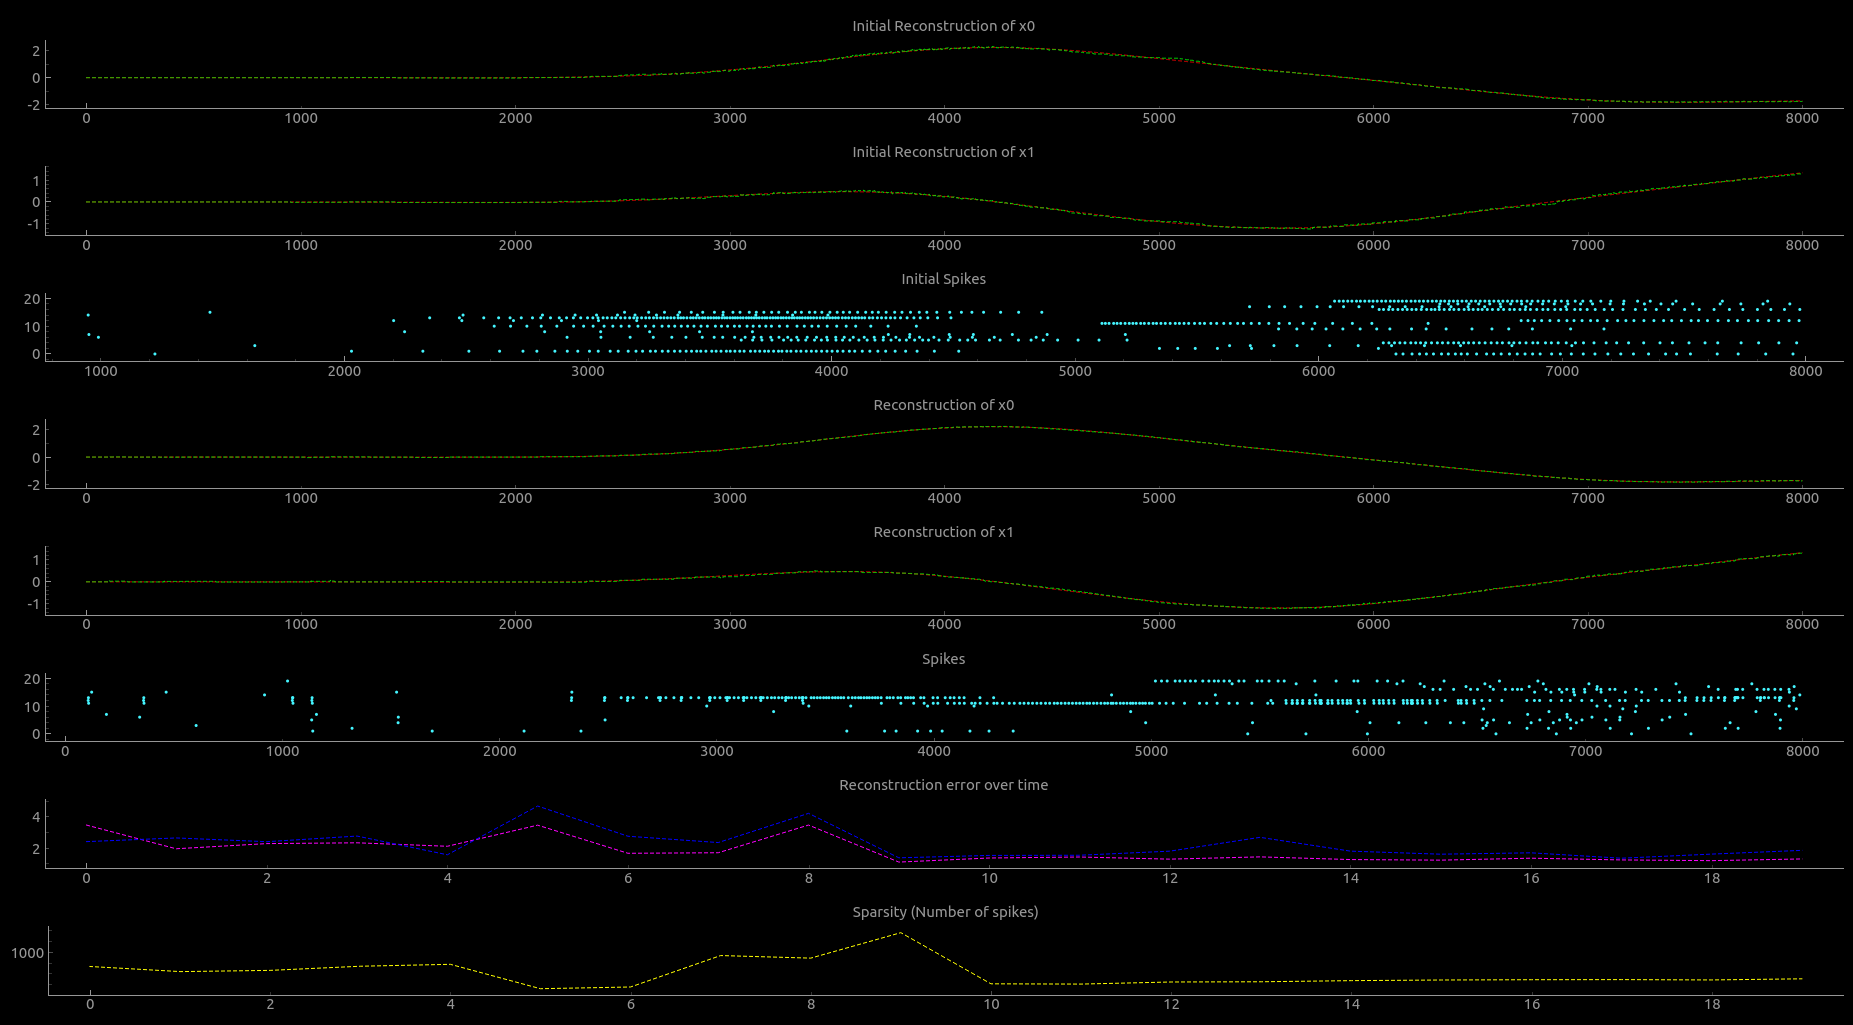
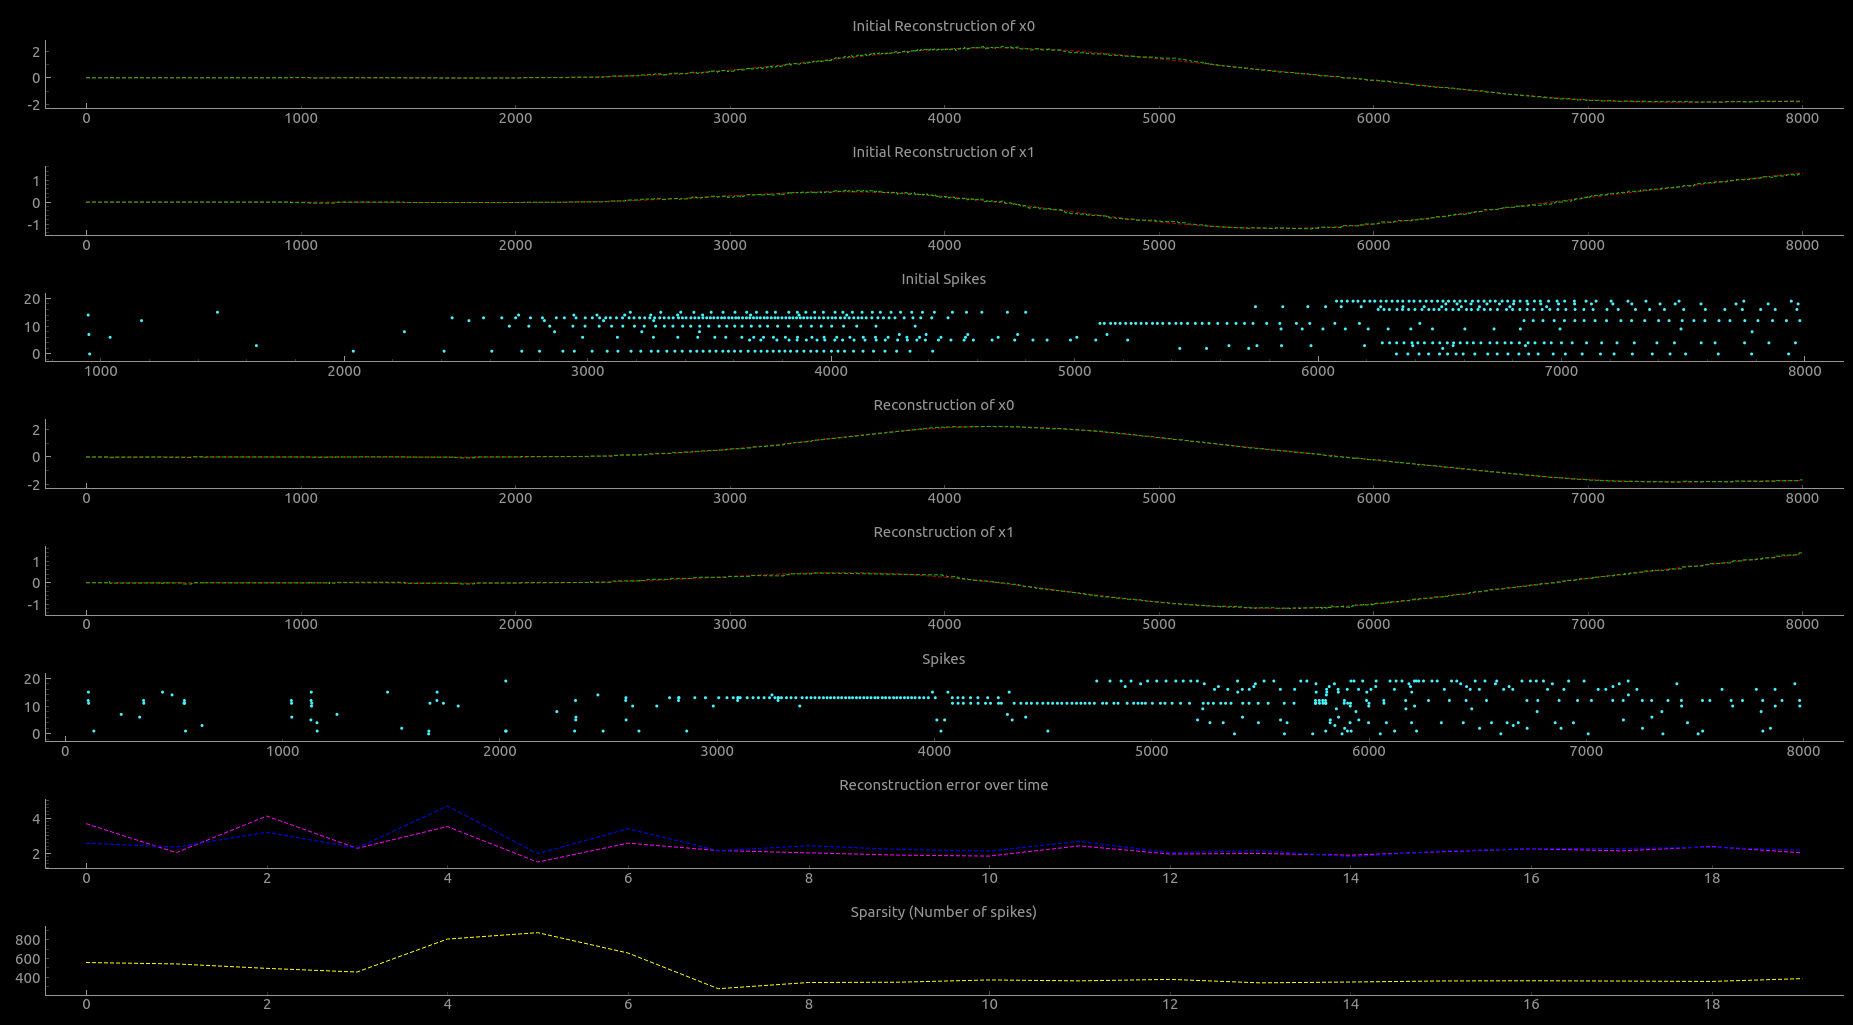
Added plots

diff --git a/spike_by_spike_training.py b/spike_by_spike_training.py
@@ -8,7 +8,7 @@ import numpy as np
 utils = Utils()
 
 #### Script to generate findings in paper "Learning to represent signals spike by spike" [https://arxiv.org/pdf/1703.03777.pdf]
-seed(42)
+seed(43)
 np.set_printoptions(precision=6, suppress=True) # For the rate vector
 
 x = utils.get_matlab_like_input()
@@ -88,7 +88,10 @@ def update_G(t):
     # Forumula is V_n(t) = D_n^T*x - D_n^T*Dr
     x_t = np.reshape(x[:, current_t], (-1,1))
     r_tmp = np.reshape(rt_1, (-1,1))
+
+    old_voltage_reconstructed = G.v_recon_    
     voltage_reconstructed = np.matmul(F_.T, x_t) + np.matmul(Omega_,r_tmp)
+
 
     if(current_t == 0):
         vt = 0.166*np.reshape(np.asarray(np.random.randn(utils.N)), (-1,1))
@@ -97,9 +100,15 @@ def update_G(t):
 
     ot = np.zeros(shape=ot_1.shape)
     
-    # TODO Check this. This is different in the paper
     T = utils.thresh*np.ones(shape=(utils.N,1)) - np.reshape(eps_t[:,current_t],(-1,1))
     k = np.argmax(vt - T)
+
+    # Reset the integration error, because we know the level of the threshold
+    for i in range(len(old_voltage_reconstructed)):
+        diff = old_voltage_reconstructed[i] - voltage_reconstructed[i]
+        if(diff > T[i]-0.05):
+            voltage_reconstructed[i] = T[i] - diff
+
     #print(vt[n])
 
     # Rule in the paper is Delta Omega_{n,k} = -beta(V_n + mu*r_n) - Omega_{n,k} - ... if neuron k spikes
@@ -122,10 +131,10 @@ def update_G(t):
         ot[k] = 1
         if(utils.use_learning):
             F_[:,k] = np.reshape(np.reshape(F_[:,k], (-1,1)) + utils.eps_f*(utils.alpha*np.reshape(I.xt_1_,(-1,1)) - np.reshape(F_[:,k], (-1,1))), (-1,))
-            tmp = np.reshape(np.reshape(Omega_[:,k], (-1,1)) - utils.eps_omega*(utils.beta*(vt_1 + utils.mu*rt_1) + np.reshape(Omega_[:,k], (-1,1))), (-1,))
+            #tmp = np.reshape(np.reshape(Omega_[:,k], (-1,1)) - utils.eps_omega*(utils.beta*(vt_1 + utils.mu*rt_1) + np.reshape(Omega_[:,k], (-1,1))), (-1,))
             #tmp = np.reshape(np.reshape(Omega_[:,k], (-1,1)) - utils.eps_omega*(utils.beta*(utils.mu*rt_1) + np.reshape(Omega_[:,k], (-1,1))), (-1,)) # DOnt use vt
             # Use the reconstructed voltage in the update. Use G.v_recon_ since at this point it refers to v(t-1). voltage_reconstructed holds the value of v(t). The update is performed at the bottom.
-            #tmp = np.reshape(np.reshape(Omega_[:,k], (-1,1)) - utils.eps_omega*(utils.beta*(np.reshape(G.v_recon_, (-1,1)) + utils.mu*rt_1) + np.reshape(Omega_[:,k], (-1,1))), (-1,))
+            tmp = np.reshape(np.reshape(Omega_[:,k], (-1,1)) - utils.eps_omega*(utils.beta*(np.reshape(G.v_recon_, (-1,1)) + utils.mu*rt_1) + np.reshape(Omega_[:,k], (-1,1))), (-1,))
             tmp1 = Omega_[k,k] - utils.eps_omega*utils.mu
             Omega_[:,k] = tmp
             Omega_[k,k] = tmp1
@@ -198,11 +207,15 @@ for i in range(0,utils.num_iter):
     for j in range(len(errs)):
         s = s + ("Err%d is " % j) + ("%.6f" % errs[j]) + "    "
     
-    s = s + ("    #Spikes: %d" % np.sum(ot.ravel()))
+    s = s + ("#Spikes: %d" % np.sum(ot.ravel()))
     s = s + ("    Delta F: %.6f    Delta Omega: %.6f" % (delta_F, delta_Omega))
-    utils.eps_omega = utils.eps_omega / 2
-    utils.eps_f = utils.eps_f / 2
     print(s)
+
+    ##### Decay learning rate #####
+    if((i+1) % 5 == 0):
+        utils.eps_omega = utils.eps_omega *0.75 # was 0.5
+        utils.eps_f = utils.eps_f *0.75
+        print(("Reduced learning rate:     Eps Omega: %.6f     Eps F: %.6f" % (utils.eps_omega, utils.eps_f)))
     num_spikes.append(np.sum(ot.ravel()))
 
     # Collect x_hat from the first run w/o training
@@ -222,7 +235,7 @@ errors = np.asarray(errors)
 
 n = 5
 for i in range(0,n):
-        #plt.plot(v_recon[i,:], colors[i], label="Reconstructed voltage")
+        plt.plot(v_recon[i,:], utils.colors[i], label="Reconstructed voltage")
         plt.plot(v_true[i,:], utils.colors[i], label="True voltage")
 plt.legend()
 plt.show()

diff --git a/utils.py b/utils.py
@@ -11,12 +11,14 @@ class Utils:
         self.colors = ['m','b','y','r','g']
         self.penable = True # Enable plotting
         self.use_learning = True
-        self.num_iter = 2 # TODO How many iterations for training?
+        self.num_iter = 20 # TODO How many iterations for training?
         self.N = 20
         self.n_in = 2
         self.thresh = 0.5
 
-        self.duration = 8000 #ms # TODO How long should be one run through the signal? Matlab code: 5000 (ms?)
+        self.duration = 8000
+        self.short_duration = 8000
+        self.longer_duration = 12000 #ms # TODO How long should be one run through the signal? Matlab code: 5000 (ms?)
         self.delta_t = 1 # ms
         # TODO correct (2 lines below)?
         self.dtt = 10**-3
@@ -33,13 +35,17 @@ class Utils:
         self.beta = 1.25
         self.mu = 0.02#0.02 #l2 cost. High l2 cost -> Denser spike trains.
 
-        self.gamma = 40.5#0.8 #Initital FF weight. High -> High initial firing -> High number of updates
+        self.gamma = 30.5#0.8 #Initital FF weight. High -> High initial firing -> High number of updates
         self.omega = -0.5
 
         self.eta  = 1000 # TODO In the paper it says time constant 6ms. Does that correspond to sigma(std)=6 ?, 600
         self.mA_xrT = MovingAverage(shape=(self.n_in,self.N))
         self.mA_rrT = MovingAverage(shape=(self.N,self.N))
         self.mA_r = MovingAverage(shape=(self.N,1))
+
+    def set_duration(self, duration):
+        self.duration = duration
+        self.time_steps = int(self.duration/self.delta_t)
 
     def set_n_in(self, n=2):
         self.n_in = n

diff --git a/playground.py b/playground.py
@@ -3,20 +3,7 @@ import numpy as np
 from utils import Utils
 
 
-utils = Utils()
 
-T = utils.duration
-dim = utils.n_in
-seed = np.random.randn(dim, T)*utils.sigma_x
-L = round(6*utils.eta)
-cNS = np.hstack([np.zeros((dim,1)), seed])
-
-ker = np.exp( -((np.linspace(1,L,L) - L/2))**2/utils.eta**2)
-ker = ker/sum(ker)
-
-x = np.zeros((dim, max([cNS.shape[1]+len(ker)-1,len(ker),cNS.shape[1] ])))
-
-for i in range(0,dim):
-    x[i,:] = np.convolve(cNS[i,:], ker)*np.sqrt(utils.eta/0.4)
-
-x = x[:, 0:T]
+for i in range(0,10):
+    if((i+1) % 5 == 0):
+        print("Hi")
